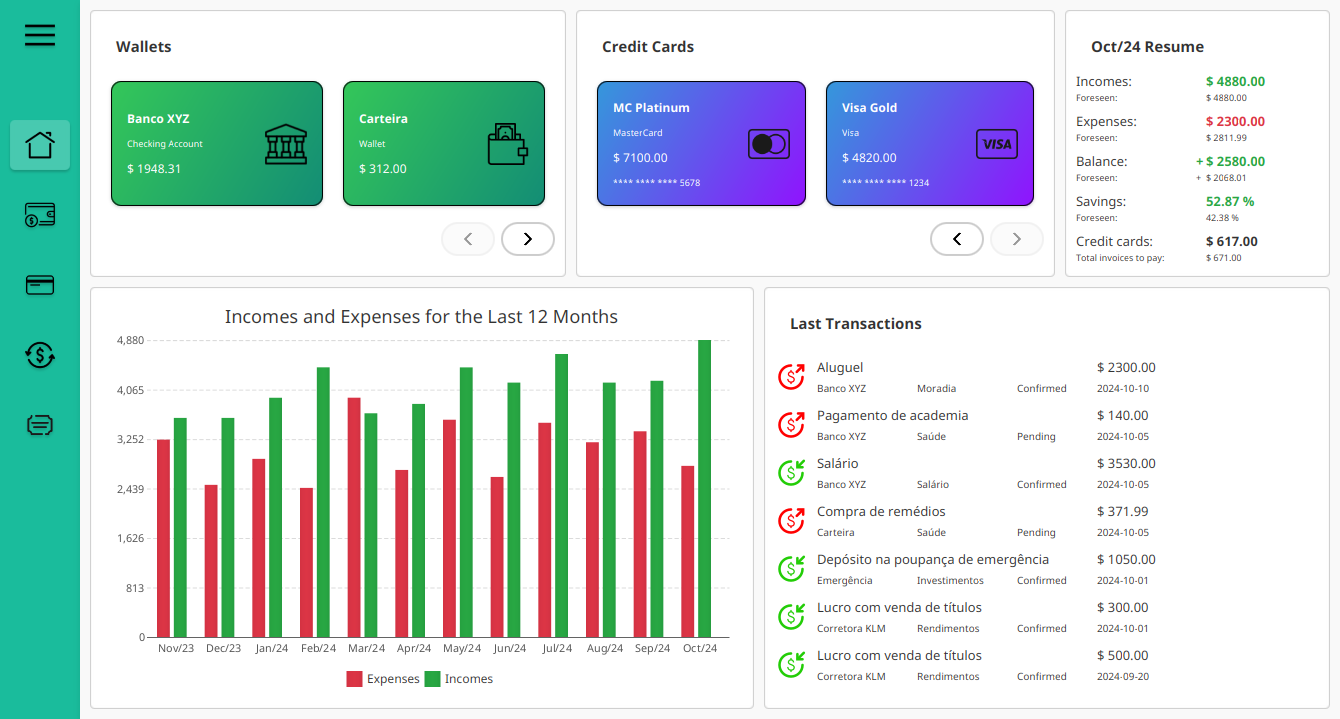
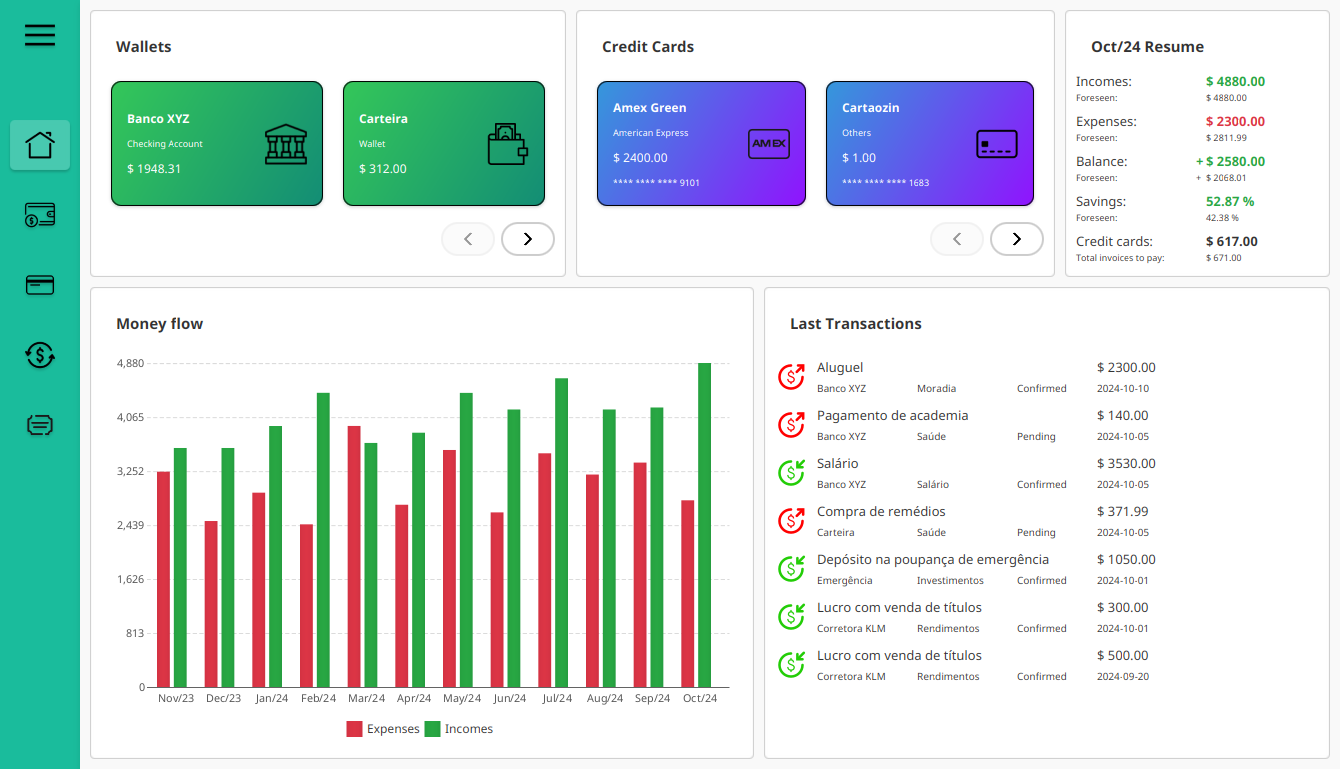
+ Remover título do gráfico de barras + Adicionar gráfico de barras com filtro por tipo de carteira a tela de   wallets

diff --git a/src/main/resources/css/wallet.css b/src/main/resources/css/wallet.css
@@ -39,3 +39,27 @@
   -fx-text-fill: grey;
   -fx-padding: 5px;
 }
+
+.default-color0.chart-bar {
+  -fx-bar-fill: #dc3545;
+}
+
+.default-color1.chart-bar {
+  -fx-bar-fill: #28a745;
+}
+
+.chart-plot-background {
+  -fx-background-color: transparent;
+}
+
+.axis {
+  -fx-border-color: transparent;
+  -fx-tick-mark-visible: false;
+  -fx-minor-tick-visible: false;
+}
+
+.chart-legend {
+  -fx-background-color: transparent;
+  -fx-font-size: 12px;
+  -fx-text-fill: #555;
+}

diff --git a/src/main/resources/css/home.css b/src/main/resources/css/home.css
@@ -112,6 +112,7 @@
 .transaction-details {
   -fx-alignment: CENTER_LEFT;
 }
+
 .default-color0.chart-bar {
   -fx-bar-fill: #dc3545;
 }

diff --git a/src/main/java/com/mymoney/ui/WalletController.java b/src/main/java/com/mymoney/ui/WalletController.java
@@ -17,17 +17,30 @@ import com.mymoney.util.TransactionStatus;
 import com.mymoney.util.TransactionType;
 import java.io.IOException;
 import java.time.LocalDate;
+import java.time.LocalDateTime;
+import java.time.format.DateTimeFormatter;
+import java.util.LinkedHashMap;
 import java.util.List;
+import java.util.Map;
 import java.util.logging.Logger;
+import javafx.animation.AnimationTimer;
 import javafx.fxml.FXML;
 import javafx.fxml.FXMLLoader;
+import javafx.scene.Node;
 import javafx.scene.Parent;
 import javafx.scene.Scene;
+import javafx.scene.chart.Axis;
+import javafx.scene.chart.BarChart;
+import javafx.scene.chart.CategoryAxis;
+import javafx.scene.chart.NumberAxis;
+import javafx.scene.chart.XYChart;
 import javafx.scene.control.ComboBox;
 import javafx.scene.control.Label;
+import javafx.scene.control.Tooltip;
 import javafx.scene.layout.AnchorPane;
 import javafx.scene.layout.VBox;
 import javafx.stage.Stage;
+import javafx.util.Duration;
 import org.springframework.beans.factory.annotation.Autowired;
 import org.springframework.context.ConfigurableApplicationContext;
 import org.springframework.stereotype.Component;
@@ -51,6 +64,9 @@ public class WalletController
     private AnchorPane walletPane3;
 
     @FXML
+    private AnchorPane moneyFlowBarChartAnchorPane;
+
+    @FXML
     private VBox totalBalancePaneInfoVBox;
 
     @FXML
@@ -68,8 +84,13 @@ public class WalletController
     @FXML
     private ComboBox<String> totalBalancePaneWalletTypeComboBox;
 
+    @FXML
+    private ComboBox<String> moneyFlowPaneWalletTypeComboBox;
+
     @Autowired
     private ConfigurableApplicationContext springContext;
+
+    private BarChart<String, Number> moneyFlowBarChart;
 
     private WalletService walletService;
 
@@ -115,12 +136,19 @@ public class WalletController
         totalBalancePaneWalletTypeComboBox.getItems().addAll(
             walletTypes.stream().map(WalletType::GetName).toList());
 
+        moneyFlowPaneWalletTypeComboBox.getItems().addAll(
+            walletTypes.stream().map(WalletType::GetName).toList());
+
         // Add default wallet type and select it
         totalBalancePaneWalletTypeComboBox.getItems().add(0, "All Wallets");
         totalBalancePaneWalletTypeComboBox.getSelectionModel().selectFirst();
 
+        moneyFlowPaneWalletTypeComboBox.getItems().add(0, "All Wallets");
+        moneyFlowPaneWalletTypeComboBox.getSelectionModel().selectFirst();
+
         UpdateTotalBalanceView();
         UpdateDisplayWallets();
+        CreateNewBarChart();
 
         SetButtonsActions();
     }
@@ -130,8 +158,10 @@ public class WalletController
      */
     private void SetButtonsActions()
     {
-        totalBalancePaneTransferButton.setOnAction(e -> AddTransfer());
         totalBalancePaneWalletTypeComboBox.setOnAction(e -> UpdateTotalBalanceView());
+        moneyFlowPaneWalletTypeComboBox.setOnAction(e -> { CreateNewBarChart(); });
+
+        totalBalancePaneTransferButton.setOnAction(e -> AddTransfer());
         totalBalancePaneAddWalletButton.setOnAction(e -> AddWallet());
 
         walletPrevButton.setOnAction(event -> {
@@ -396,6 +426,218 @@ public class WalletController
         walletNextButton.setDisable(end >= wallets.size());
     }
 
+    private void CreateNewBarChart()
+    {
+        CategoryAxis xAxis = new CategoryAxis();
+        NumberAxis   yAxis = new NumberAxis();
+
+        moneyFlowBarChart = new BarChart<>(xAxis, yAxis);
+
+        moneyFlowBarChartAnchorPane.getChildren().clear();
+
+        moneyFlowBarChartAnchorPane.getChildren().add(moneyFlowBarChart);
+
+        AnchorPane.setTopAnchor(moneyFlowBarChart, 0.0);
+        AnchorPane.setBottomAnchor(moneyFlowBarChart, 0.0);
+        AnchorPane.setLeftAnchor(moneyFlowBarChart, 0.0);
+        AnchorPane.setRightAnchor(moneyFlowBarChart, 0.0);
+
+        // Populate the chart with data
+        UpdateMoneyFlowBarChart();
+    }
+
+    /**
+     * Update the chart with incomes and expenses for the last months
+     */
+    private void UpdateMoneyFlowBarChart()
+    {
+        // LinkedHashMap to keep the order of the months
+        Map<String, Double> monthlyExpenses = new LinkedHashMap<>();
+        Map<String, Double> monthlyIncomes  = new LinkedHashMap<>();
+
+        LocalDateTime     currentDate = LocalDateTime.now();
+        DateTimeFormatter formatter   = DateTimeFormatter.ofPattern("MMM/yy");
+
+        // Filter wallet type according to the selected item
+        // If "All Wallets" is selected, show all transactions
+        Integer selectedIndex =
+            moneyFlowPaneWalletTypeComboBox.getSelectionModel().getSelectedIndex();
+
+        // Collect data for the last months
+        for (Integer i = 0; i < Constants.HOME_BAR_CHART_MONTHS; i++)
+        {
+            // Get the data from the oldest month to the most recent, to keep the order
+            LocalDateTime date =
+                currentDate.minusMonths(Constants.HOME_BAR_CHART_MONTHS - i - 1);
+            Integer month = date.getMonthValue();
+            Integer year  = date.getYear();
+
+            // Get transactions
+            List<WalletTransaction> transactions =
+                walletService.GetAllTransactionsByMonth(month, year);
+            logger.info("Found " + transactions.size() + " transactions for " + month +
+                        "/" + year);
+
+            Double totalExpenses = 0.0;
+            Double totalIncomes  = 0.0;
+
+            if (selectedIndex == 0)
+            {
+                // Calculate total expenses for the month
+                totalExpenses = transactions.stream()
+                                    .filter(t -> t.GetType() == TransactionType.EXPENSE)
+                                    .mapToDouble(WalletTransaction::GetAmount)
+                                    .sum();
+
+                // Calculate total incomes for the month
+                totalIncomes = transactions.stream()
+                                   .filter(t -> t.GetType() == TransactionType.INCOME)
+                                   .mapToDouble(WalletTransaction::GetAmount)
+                                   .sum();
+            }
+            else if (selectedIndex > 0 && selectedIndex - 1 < walletTypes.size())
+            {
+                WalletType selectedWalletType = walletTypes.get(selectedIndex - 1);
+
+                // Calculate total expenses for the month
+                totalExpenses = transactions.stream()
+                                    .filter(t
+                                            -> t.GetWallet().GetType().GetId() ==
+                                                   selectedWalletType.GetId())
+                                    .filter(t -> t.GetType() == TransactionType.EXPENSE)
+                                    .mapToDouble(WalletTransaction::GetAmount)
+                                    .sum();
+
+                // Calculate total incomes for the month
+                totalIncomes = transactions.stream()
+                                   .filter(t
+                                           -> t.GetWallet().GetType().GetId() ==
+                                                  selectedWalletType.GetId())
+                                   .filter(t -> t.GetType() == TransactionType.INCOME)
+                                   .mapToDouble(WalletTransaction::GetAmount)
+                                   .sum();
+            }
+            else
+            {
+                logger.warning("Invalid index: " + selectedIndex);
+            }
+
+            monthlyExpenses.put(date.format(formatter), totalExpenses);
+            monthlyIncomes.put(date.format(formatter), totalIncomes);
+        }
+
+        // Create two series: one for incomes and one for expenses
+        XYChart.Series<String, Number> expensesSeries = new XYChart.Series<>();
+        expensesSeries.setName("Expenses");
+
+        XYChart.Series<String, Number> incomesSeries = new XYChart.Series<>();
+        incomesSeries.setName("Incomes");
+
+        Double maxValue = 0.0;
+
+        // Add data to each series
+        for (Map.Entry<String, Double> entry : monthlyExpenses.entrySet())
+        {
+            String month        = entry.getKey();
+            Double expenseValue = entry.getValue();
+            Double incomeValue  = monthlyIncomes.getOrDefault(month, 0.0);
+
+            expensesSeries.getData().add(
+                new XYChart.Data<>(month, 0.0)); // Start at 0 for animation
+            incomesSeries.getData().add(
+                new XYChart.Data<>(month, 0.0)); // Start at 0 for animation
+
+            maxValue = Math.max(maxValue, Math.max(expenseValue, incomeValue));
+        }
+
+        // Set Y-axis limits based on the maximum value found
+        Axis<?> yAxis = moneyFlowBarChart.getYAxis();
+        if (yAxis instanceof NumberAxis)
+        {
+            NumberAxis numberAxis = (NumberAxis)yAxis;
+            numberAxis.setAutoRanging(false);
+            numberAxis.setLowerBound(0);
+            numberAxis.setUpperBound(maxValue);
+
+            // Set the tick unit based on the maximum value
+            Integer tickUnit = (int)Math.round(
+                ((maxValue / Constants.HOME_BAR_CHART_TICKS) / 10) * 10);
+            numberAxis.setTickUnit(tickUnit);
+        }
+
+        moneyFlowBarChart.setVerticalGridLinesVisible(false);
+
+        moneyFlowBarChart.getData().add(expensesSeries);
+        moneyFlowBarChart.getData().add(incomesSeries);
+
+        for (int i = 0; i < expensesSeries.getData().size(); i++)
+        {
+            XYChart.Data<String, Number> expenseData = expensesSeries.getData().get(i);
+            XYChart.Data<String, Number> incomeData  = incomesSeries.getData().get(i);
+
+            Double targetExpenseValue = monthlyExpenses.get(expenseData.getXValue());
+
+            // Add tooltip to the bars
+            AddTooltipToNode(expenseData.getNode(),
+                             String.format("%.2f", targetExpenseValue));
+
+            Double targetIncomeValue =
+                monthlyIncomes.getOrDefault(expenseData.getXValue(), 0.0);
+
+            AddTooltipToNode(incomeData.getNode(),
+                             String.format("%.2f", targetIncomeValue));
+
+            // Animation for Expenses
+            CreateAnimation(expenseData, targetExpenseValue);
+
+            // Animation for Incomes
+            CreateAnimation(incomeData, targetIncomeValue);
+        }
+    }
+
+    private void CreateAnimation(XYChart.Data<String, Number> data, Double targetValue)
+    {
+        data.setYValue(0.0); // Start at zero
+
+        AnimationTimer timer = new AnimationTimer() {
+            private Long         lastUpdate   = 0L;
+            private Double       currentValue = 0.0;
+            private final Double increment =
+                targetValue / Constants.HOME_BAR_CHART_ANIMATION_FRAMES;
+            Double elapsed = 0.0;
+
+            @Override
+            public void handle(long now)
+            {
+                if (lastUpdate == 0)
+                {
+                    lastUpdate = now;
+                }
+
+                elapsed += (now - lastUpdate) / Constants.ONE_SECOND_IN_NS;
+
+                if (elapsed >= Constants.HOME_BAR_CHART_ANIMATION_DURATION)
+                {
+                    currentValue = targetValue;
+                    data.setYValue(currentValue);
+                    stop();
+                }
+                else
+                {
+                    currentValue += increment;
+                    if (currentValue > targetValue)
+                    {
+                        currentValue = targetValue;
+                    }
+                    data.setYValue(currentValue);
+                }
+
+                lastUpdate = now;
+            }
+        };
+        timer.start();
+    }
+
     /**
      * Add a new wallet
      */
@@ -458,5 +700,24 @@ public class WalletController
         {
             e.printStackTrace();
         }
+    }
+
+    /**
+     * Add a tooltip to a node
+     * @param node The node to add the tooltip
+     * @param text The text of the tooltip
+     */
+    private void AddTooltipToNode(Node node, String text)
+    {
+        node.setOnMouseEntered(event -> { node.setStyle("-fx-opacity: 0.7;"); });
+        node.setOnMouseExited(event -> { node.setStyle("-fx-opacity: 1;"); });
+
+        Tooltip tooltip = new Tooltip(text);
+        tooltip.getStyleClass().add(Constants.HOME_TOOLTIP_STYLE);
+        tooltip.setShowDelay(Duration.seconds(Constants.HOME_TOOLTIP_ANIMATION_DELAY));
+        tooltip.setHideDelay(
+            Duration.seconds(Constants.HOME_TOOLTIP_ANIMATION_DURATION));
+
+        Tooltip.install(node, tooltip);
     }
 }

diff --git a/src/main/java/com/mymoney/util/Constants.java b/src/main/java/com/mymoney/util/Constants.java
@@ -100,8 +100,8 @@ public final class Constants
         "total-balance-wallets-label";
 
     // Sizes
-    public static final Integer WALLET_TYPE_ICONS_SIZE           = 42; // 32x32 px
-    public static final Integer CRC_OPERATOR_ICONS_SIZE          = 42; // 32x32 px
+    public static final Integer WALLET_TYPE_ICONS_SIZE           = 42; // 42x42 px
+    public static final Integer CRC_OPERATOR_ICONS_SIZE          = 42; // 42x42 px
     public static final Integer HOME_LAST_TRANSACTIONS_SIZE      = 7;
     public static final Integer HOME_LAST_TRANSACTIONS_ICON_SIZE = 32; // 32x32 px
     public static final Integer HOME_LAST_TRANSACTIONS_DESCRIPTION_LABEL_WIDTH = 280;

diff --git a/src/main/java/com/mymoney/ui/HomeController.java b/src/main/java/com/mymoney/ui/HomeController.java
@@ -483,8 +483,6 @@ public class HomeController
         }
 
         transactionsLast12Months.setVerticalGridLinesVisible(false);
-        transactionsLast12Months.setTitle("Incomes and Expenses for the Last " +
-                                          Constants.HOME_BAR_CHART_MONTHS + " Months");
 
         // Clear previous data and add the new series (expenses and incomes)
         transactionsLast12Months.getData().clear();
